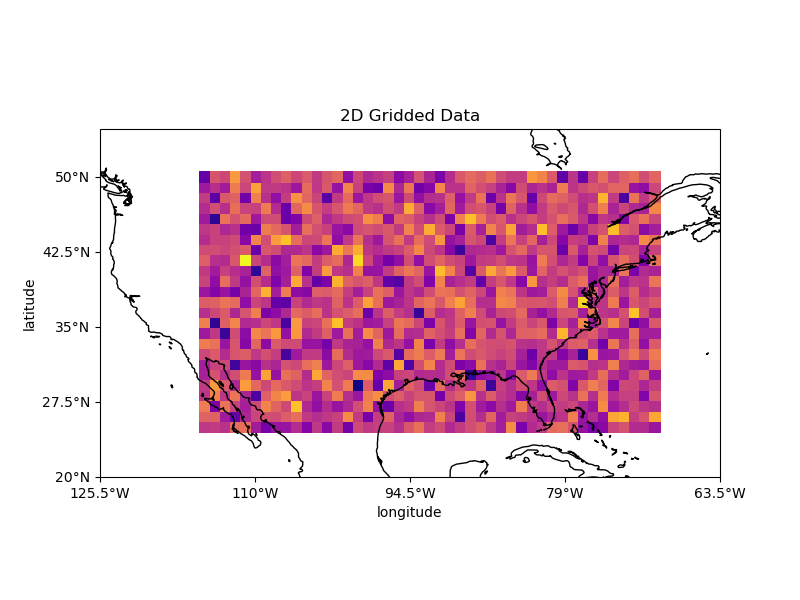
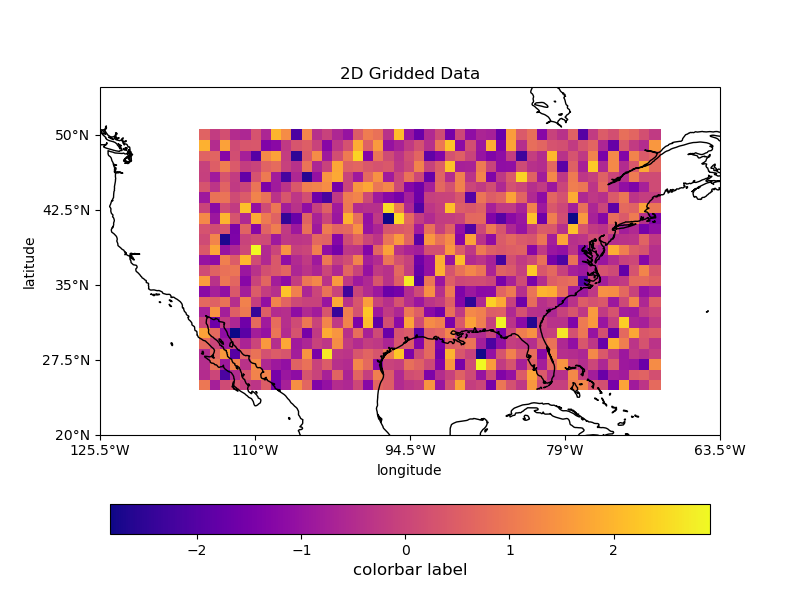
add colorbar back

diff --git a/examples/map_plots/map_gridded.py b/examples/map_plots/map_gridded.py
@@ -23,6 +23,8 @@ plot1.add_map_features(['coastline'])
 plot1.add_xlabel(xlabel='longitude')
 plot1.add_ylabel(ylabel='latitude')
 plot1.add_title(label='2D Gridded Data', loc='center')
+plot1.add_colorbar(label='colorbar label',
+                   fontsize=12, extend='neither')
 
 # Create figure
 fig = CreateFigure()
